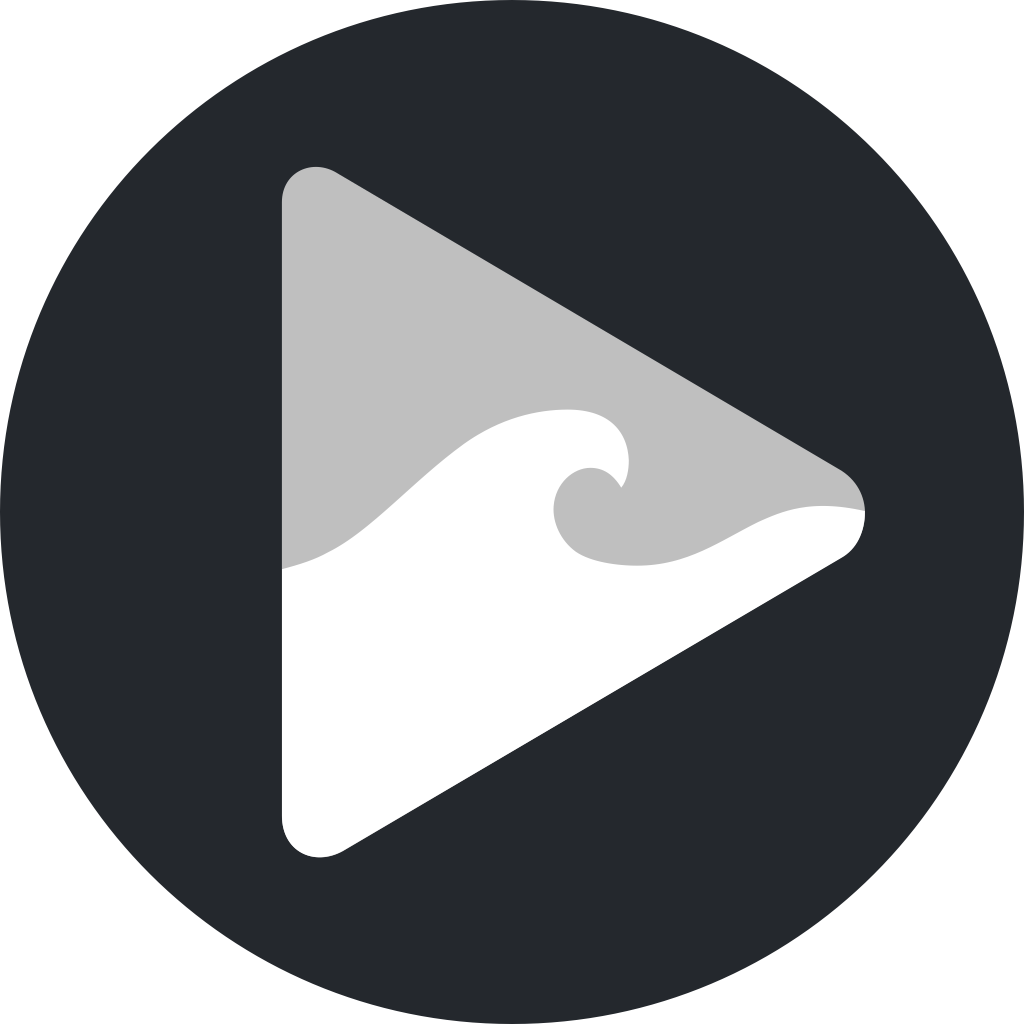
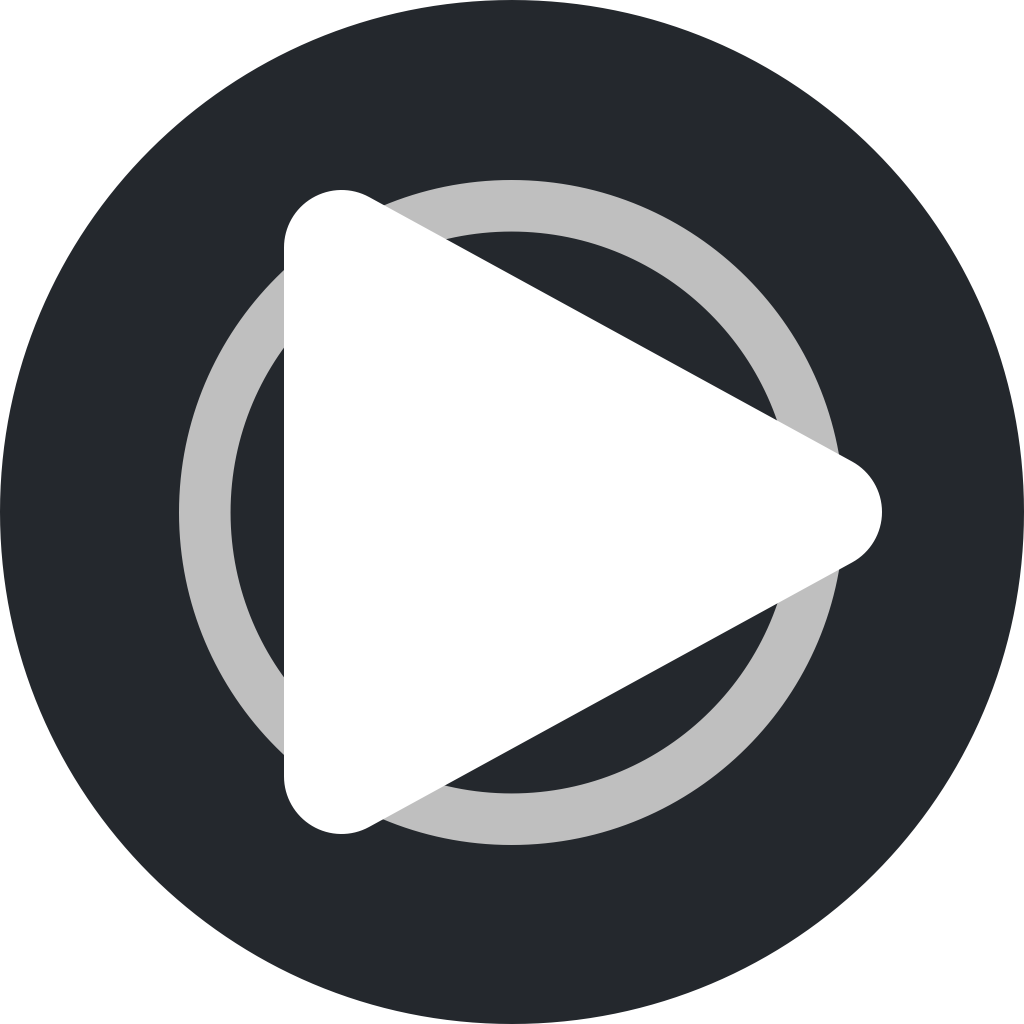
0.3.0 - mediaSession

Changed region(s): [[0.1562, 0.1562, 0.875, 0.8438], [0.6562, 0.625, 0.6875, 0.6562]]

diff --git a/android/src/main/kotlin/com/alesdrnz/mpv_audio_kit/media_session/InterruptionLogic.kt b/android/src/main/kotlin/com/alesdrnz/mpv_audio_kit/media_session/InterruptionLogic.kt
@@ -17,9 +17,10 @@ import android.media.AudioManager
  * Mirrors the Apple `AVAudioSession` behaviour in `MediaSessionPlugin.swift`:
  * - `pauseAndResume`: pause on loss; resume only after a *transient* loss.
  * - `pauseOnly`: pause on loss; never auto-resume.
- * - `keepPlaying`: never auto-pause (the system still auto-ducks).
- * A headphone unplug ("becoming noisy") pauses regardless of policy (Apple
- * HIG parity), and never arms auto-resume — re-plugging must not restart.
+ * - `keepPlaying`: never auto-pause on focus loss (the system still auto-ducks).
+ * A headphone unplug ("becoming noisy") always pauses, even under
+ * `keepPlaying` (Apple HIG: don't blast the speaker), and never arms
+ * auto-resume — re-plugging must not restart.
  */
 internal object InterruptionLogic {
 
@@ -113,11 +114,8 @@ internal object InterruptionLogic {
     }
 
     /** Reaction to `ACTION_AUDIO_BECOMING_NOISY` (headphones unplugged / BT
-     *  disconnect). Pause unless keepPlaying; never arm auto-resume. */
-    fun onBecomingNoisy(policy: String): Reaction =
-        if (policy == KEEP_PLAYING) {
-            Reaction(command = null, resumeOnFocusGain = false, abandonFocus = false)
-        } else {
-            Reaction(command = PAUSE, resumeOnFocusGain = false, abandonFocus = false)
-        }
+     *  disconnect). Always pauses, even under keepPlaying (Apple HIG: don't
+     *  blast the speaker); never arms auto-resume — re-plugging must not restart. */
+    fun onBecomingNoisy(): Reaction =
+        Reaction(command = PAUSE, resumeOnFocusGain = false, abandonFocus = false)
 }

diff --git a/android/src/test/kotlin/com/alesdrnz/mpv_audio_kit/media_session/InterruptionLogicTest.kt b/android/src/test/kotlin/com/alesdrnz/mpv_audio_kit/media_session/InterruptionLogicTest.kt
@@ -160,17 +160,13 @@ class InterruptionLogicTest {
     // ── Becoming noisy (headphones unplugged) ───────────────────────────
 
     @Test
-    fun `becoming noisy pauses under pause policies and never arms resume`() {
-        for (policy in listOf("pauseAndResume", "pauseOnly")) {
-            val r = InterruptionLogic.onBecomingNoisy(policy)
+    fun `becoming noisy always pauses and never arms resume`() {
+        // Headphone unplug / BT disconnect pauses under every policy,
+        // including keepPlaying (Apple HIG parity); never arms auto-resume.
+        for (policy in listOf("pauseAndResume", "pauseOnly", "keepPlaying")) {
+            val r = InterruptionLogic.onBecomingNoisy()
             assertEquals(InterruptionLogic.PAUSE, r.command, "policy=$policy")
             assertFalse(r.resumeOnFocusGain, "re-plugging must not auto-resume (policy=$policy)")
         }
-    }
-
-    @Test
-    fun `becoming noisy is a no-op under keepPlaying`() {
-        val r = InterruptionLogic.onBecomingNoisy("keepPlaying")
-        assertNull(r.command)
     }
 }

diff --git a/ios/mpv_audio_kit/Package.swift b/ios/mpv_audio_kit/Package.swift
@@ -63,15 +63,15 @@ let package = Package(
         // at a time — the kit comments/uncomments these blocks; do not hand-edit
         // the mpvkit: markers.
         // mpvkit:local:begin
-        .binaryTarget(
-            name: "libmpv",
-            path: "Frameworks/libmpv.xcframework"),
-        // mpvkit:local:end
-        // mpvkit:remote:begin
         // .binaryTarget(
             // name: "libmpv",
-            // url: "https://github.com/ales-drnz/mpv_audio_kit/releases/download/libmpv-r8/libmpv_ios.xcframework.zip",
[1 lines of base64/hex data omitted]
+            // path: "Frameworks/libmpv.xcframework"),
+        // mpvkit:local:end
+        // mpvkit:remote:begin
+        .binaryTarget(
+            name: "libmpv",
+            url: "https://github.com/ales-drnz/mpv_audio_kit/releases/download/libmpv-r8/libmpv_ios.xcframework.zip",
[1 lines of base64/hex data omitted]
         // mpvkit:remote:end
     ]
 )

diff --git a/macos/mpv_audio_kit/Package.swift b/macos/mpv_audio_kit/Package.swift
@@ -61,15 +61,15 @@ let package = Package(
         // at a time — the kit comments/uncomments these blocks; do not hand-edit
         // the mpvkit: markers.
         // mpvkit:local:begin
-        .binaryTarget(
-            name: "libmpv",
-            path: "Frameworks/libmpv.xcframework"),
-        // mpvkit:local:end
-        // mpvkit:remote:begin
         // .binaryTarget(
             // name: "libmpv",
-            // url: "https://github.com/ales-drnz/mpv_audio_kit/releases/download/libmpv-r8/libmpv_macos.xcframework.zip",
[1 lines of base64/hex data omitted]
+            // path: "Frameworks/libmpv.xcframework"),
+        // mpvkit:local:end
+        // mpvkit:remote:begin
+        .binaryTarget(
+            name: "libmpv",
+            url: "https://github.com/ales-drnz/mpv_audio_kit/releases/download/libmpv-r8/libmpv_macos.xcframework.zip",
[1 lines of base64/hex data omitted]
         // mpvkit:remote:end
     ]
 )

diff --git a/darwin/Sources/mpv_audio_kit/MpvAudioKitPlugin.swift b/darwin/Sources/mpv_audio_kit/MpvAudioKitPlugin.swift
@@ -15,10 +15,9 @@ import FlutterMacOS
 /// Most of the package's surface is delivered via direct FFI calls to
 /// `libmpv`; this class only exists to:
 ///
-/// - register a `mpv_audio_kit` method channel for the few platform
-///   bridges that still need it (currently unused — the only consumer,
-///   Android `openFileDescriptor` for content:// URIs, is iOS/macOS
-///   N/A), and
+/// - register the `mpv_audio_kit` method channel (unused on Apple — its
+///   only method, `openFileDescriptor` for `content://` URIs, is
+///   Android-only), and
 /// - hand control off to `MediaSessionPlugin.register(with:)` so the
 ///   OS Now Playing widget / Control Center / lockscreen integration
 ///   gets wired up alongside the core plugin.
@@ -39,8 +38,8 @@ public class MpvAudioKitPlugin: NSObject, FlutterPlugin {
   }
 
   public func handle(_ call: FlutterMethodCall, result: @escaping FlutterResult) {
-    // Reserved for future platform-bridge methods. Today every
-    // libmpv operation goes through direct FFI from Dart.
+    // The `mpv_audio_kit` channel carries no methods on Apple; libmpv is
+    // driven via FFI from Dart.
     result(FlutterMethodNotImplemented)
   }
 }

diff --git a/test_app/integration_test/media_session_test.dart b/test_app/integration_test/media_session_test.dart
@@ -151,8 +151,8 @@ void main() {
       expect((np['duration'] as num?)?.toDouble() ?? 0, greaterThan(1.5),
           reason: 'snapshot=$np',);
       expect(np['playbackState'], 'playing', reason: 'snapshot=$np');
-      // Embedded cover only resolves where libmpv is patched for it
-      // (macOS desktop). iOS currently ships an unpatched libmpv.
+      // Embedded cover art reaches the OS now-playing info on every
+      // shipped platform; this suite asserts it on macOS only.
       if (Platform.isMacOS) {
         expect(np['hasArtwork'], true, reason: 'snapshot=$np');
       }
@@ -206,7 +206,8 @@ void main() {
 
       // The settled OS state: elapsed moved to ~1.5s, and the play
       // state stayed playing — i.e. mpv's transient pause during the
-      // seek did NOT leak to the OS (suppression). The frame-level
+      // seek did NOT leak to the OS — the published play state binds to
+      // the playWhenReady intent axis, stable across seeks. The frame-level
       // proof of no-flicker is the Dart controller unit test; here we
       // assert the real settled end-to-end state.
       final np = await pumpUntil(

diff --git a/lib/src/internals/event_isolate.dart b/lib/src/internals/event_isolate.dart
@@ -612,10 +612,8 @@ class MpvEventIsolate {
   // state partially populated.
   final _events = StreamController<MpvIsolateEvent>();
 
-  /// The post-init event stream. Single-subscription so the initial
-  /// property-change burst (one per observed property, emitted the
-  /// moment the isolate starts polling) is buffered until the main-side
-  /// listener attaches, rather than dropped.
+  /// The post-init event stream; single-subscription with buffering (see
+  /// the [_events] field for why the initial burst must not be dropped).
   Stream<MpvIsolateEvent> get events => _events.stream;
 
   /// Spawns the event isolate, runs the heavy mpv init recipe inside

diff --git a/lib/src/player/player.dart b/lib/src/player/player.dart
@@ -876,9 +876,9 @@ abstract class _PlayerBase {
           // FILE_LOADED on internal reloads (EDL / segment / gapless / track
           // reinit) for the same audio; resetting there would discard a
           // completed bulk envelope, force a full re-decode, and flash the meter
-          // to empty. Key off the playlist entry `path` — stable across the
-          // PlexTranscode on_load hook (which rewrites stream-open-filename but
-          // not `path`) and distinct per track.
+          // to empty. Key off the playlist entry `path` — stable across an
+          // on_load hook that rewrites stream-open-filename but not `path`,
+          // and distinct per track.
           if (_bringUpCompleted) {
             final src = _getPropStringSync('path');
             if (src != _lastWaveformSource) {

diff --git a/lib/src/types/enums/interruption_policy.dart b/lib/src/types/enums/interruption_policy.dart
@@ -28,10 +28,6 @@ enum InterruptionPolicy {
   /// focus.
   ///
   /// Observability: because this policy never pauses, an interruption
-  /// emits NO command on [PlayerStream.mediaSessionCommands]. (Under the
-  /// other policies the auto-pause/resume surfaces as a generic
-  /// `MediaSessionCommand.pause` / `MediaSessionCommand.play`, which is
-  /// indistinguishable from a lockscreen play/pause tap — there is no
-  /// dedicated interruption event.)
+  /// emits NO command on [PlayerStream.mediaSessionCommands].
   keepPlaying,
 }

diff --git a/lib/src/types/sealed/media_session_command.dart b/lib/src/types/sealed/media_session_command.dart
@@ -26,9 +26,9 @@ import '../enums/loop.dart';
 ///
 /// Commands are also auto-applied to the [Player] by default — the
 /// stream above is for analytics / interception only. The package
-/// routes [next] / [previous] to mpv's playlist when one is loaded;
-/// otherwise the command is emit-only (the consumer's queue logic
-/// handles it).
+/// routes [next] / [previous] to mpv's playlist when it holds more than
+/// one entry; otherwise the command is emit-only (the consumer's queue
+/// logic handles it).
 sealed class MediaSessionCommand {
   const MediaSessionCommand._();
 

diff --git a/lib/src/models/media_session.dart b/lib/src/models/media_session.dart
@@ -125,9 +125,8 @@ class MediaSession {
   /// extension) — used by MPRIS on Linux to resolve the app icon shown beside
   /// the media controls in GNOME / KDE. For
   /// `/usr/share/applications/com.example.myapp.desktop`, pass
-  /// `'com.example.myapp'`. `null` omits the hint entirely (the desktop shows a
-  /// generic placeholder) rather than emitting a guessed value that resolves to
-  /// the wrong icon. Ignored on every non-Linux platform.
+  /// `'com.example.myapp'`. `null` omits the hint. Ignored on every
+  /// non-Linux platform.
   final String? desktopEntry;
 
   /// Creates a media-session configuration. Every field is optional and

diff --git a/lib/src/player/player_api.dart b/lib/src/player/player_api.dart
@@ -149,8 +149,8 @@ abstract interface class PlayerApi {
 
   // ── Audio output ───────────────────────────────────────────────────
 
-  /// Sets the output volume in percent (`100` is unattenuated), clamped to
-  /// the current volume-max.
+  /// Sets the output volume in percent (`100` is unattenuated). mpv applies
+  /// its own `volume-max` ceiling.
   Future<void> setVolume(double volume);
 
   /// Sets the playback rate multiplier (`1.0` is normal speed).